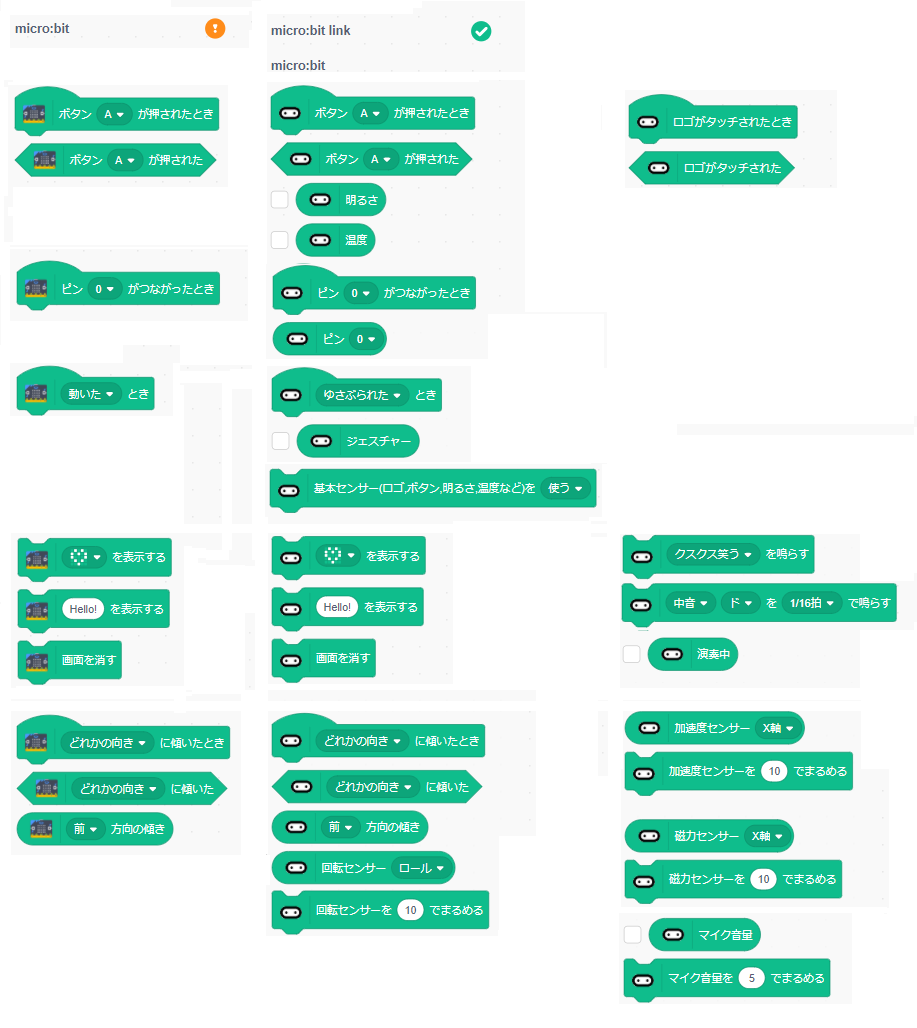
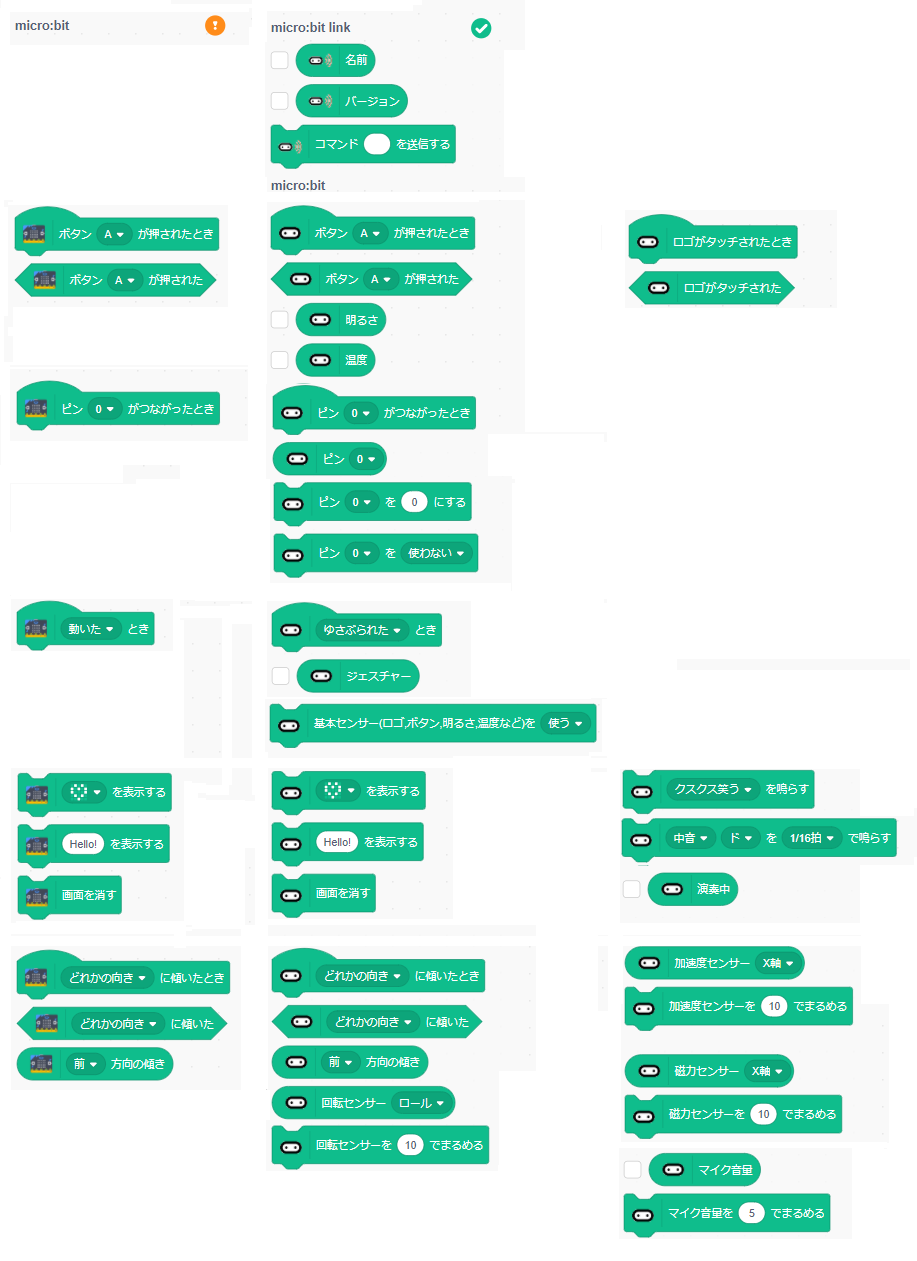
update

diff --git a/scratch-vm/src/extensions/scratch3_mbituart/index.js b/scratch-vm/src/extensions/scratch3_mbituart/index.js
@@ -38,6 +38,12 @@ const CMD = {
 	PLAY_TONE_4: "T4",
 	PLAY_TONE_2: "T2",
 	PLAY_TONE_1: "T1",
+	MODE_PIN_0: "R0",
+	MODE_PIN_1: "R1",
+	MODE_PIN_2: "R2",
+	WRITE_PIN_0: "P0",
+	WRITE_PIN_1: "P1",
+	WRITE_PIN_2: "P2",
 	PLAY_EXPRESS: "TT",
 };
 
@@ -101,7 +107,6 @@ class MBitUART {
 
 			// micro:bit v2	
 			play_sound: 0,
-			microbit_level: 0,
             microphone: 0,
 		};
 
@@ -188,11 +193,6 @@ class MBitUART {
 				}
 				return true;
 			}
-			if(data[1] == 'V') {
-				this._sensors.microbit_level = parseInt(data.substr(2));
-				return true;
-			}
-			return true;
 		}
 		return false;
 	}
@@ -254,9 +254,6 @@ class MBitUART {
 
 	get play_sound () {
 		return this._sensors.play_sound;
-	}
-	get microbit_level () {
-		return this._sensors.microbit_level;
 	}
 	get microphone () {
 		return this._sensors.microphone;
@@ -348,6 +345,12 @@ const MBitUART_Rotation = {
 const MBitUART_Enable = {
 	ENABLE: 1,
 	DISABLE: 0
+};
+
+const MBitUART_PINMODE = {
+	NONE: 0,
+	ONOFF: 1,
+	VALUE: 2
 };
 
 const MBitUART_SoundLevel = {
@@ -451,6 +454,34 @@ class Scratch3_MBitUART_Blocks {
 			{
 				text: '2',
 				value: 2
+			},
+		];
+	}
+	get TOUCH_PINMODE_MENU () {
+		return [
+			{
+				text: formatMessage({
+					id: 'mbituart.pinModeMenu.none',
+					default: 'none',
+					description: 'label for pin mode picker'
+				}),
+				value: MBitUART_PINMODE.NONE
+			},
+			{
+				text: formatMessage({
+					id: 'mbituart.pinModeMenu.onoff',
+					default: 'onoff',
+					description: 'label for pin mode picker'
+				}),
+				value: MBitUART_PINMODE.ONOFF
+			},
+			{
+				text: formatMessage({
+					id: 'mbituart.pinModeMenu.value',
+					default: 'value',
+					description: 'label for pin mode picker'
+				}),
+				value: MBitUART_PINMODE.VALUE
 			},
 		];
 	}
@@ -1057,6 +1088,49 @@ class Scratch3_MBitUART_Blocks {
 					}
 				},
 				{
+					opcode: 'outPinValue',
+					text: formatMessage({
+						id: 'mbituart.outPinValue',
+						default: 'output [VALUE] to pin [PIN] ',
+						description: 'output value to the pin'
+
+					}),
+					blockType: BlockType.COMMAND,
+					arguments: {
+						PIN: {
+							type: ArgumentType.NUMBER,
+							menu: 'touchPins',
+							defaultValue: 0
+						},
+						VALUE: {
+							type: ArgumentType.NUMBER,
+							defaultValue: 0
+						}
+					}
+				},
+				{
+					opcode: 'setPinConfig',
+					text: formatMessage({
+						id: 'mbituart.setPinConfig',
+						default: 'pin [PIN] [MODE]',
+						description: 'set the pin mode'
+
+					}),
+					blockType: BlockType.COMMAND,
+					arguments: {
+						PIN: {
+							type: ArgumentType.NUMBER,
+							menu: 'touchPins',
+							defaultValue: 0
+						},
+						MODE: {
+							type: ArgumentType.STRING,
+							menu: 'pinMode',
+							defaultValue: MBitUART_PINMODE.NONE
+						}
+					}
+				},
+				{
 					opcode: 'whenGesture',
 					text: formatMessage({
 						id: 'mbituart.whenGesture',
@@ -1393,6 +1467,10 @@ class Scratch3_MBitUART_Blocks {
 					acceptReporters: true,
 					items: this.TOUCH_PINS_MENU
 				},
+				pinMode: {
+					acceptReporters: true,
+					items: this.TOUCH_PINMODE_MENU
+				},
 				rotation: {
 					acceptReporters: true,
 					items: this.ROTATION_MENU
@@ -1624,6 +1702,36 @@ class Scratch3_MBitUART_Blocks {
 	getPinConnected (args) {
 		return this.instance.touch_pins[args.PIN];
 	}
+	outPinValue (args) {
+		if(argsPIN == "0") {
+			this.command(CMD.WRITE_PIN_0, args.VALUE);
+			return;
+		}
+		if(argsPIN == "1") {
+			this.command(CMD.WRITE_PIN_1, args.VALUE);
+			return;
+		}
+		if(argsPIN == "2") {
+			this.command(CMD.WRITE_PIN_2, args.VALUE);
+			return;
+		}
+	}
+	setPinConfig (args) {
+		let flag = (args.MODE == "onoff")? "1" :
+			(args.MODE == "value")? "2" : "0";
+		if(argsPIN == "0") {
+			this.command(CMD.MODE_PIN_0, flag);
+			return;
+		}
+		if(argsPIN == "1") {
+			this.command(CMD.MODE_PIN_1, flag);
+			return;
+		}
+		if(argsPIN == "2") {
+			this.command(CMD.MODE_PIN_2, flag);
+			return;
+		}
+	}
 
 	getLightLevel () {
 		return this.instance.light_level;
@@ -1645,7 +1753,7 @@ class Scratch3_MBitUART_Blocks {
 	}
 
 	setSensor (args) {
-		this.command(CMD.SENSOR, (args.ENABLE == 0)? "0" : "31");
+		this.command(CMD.SENSOR, (args.ENABLE == 0)? "0" : ("" + (1 + 2 + 4 + 16)));
 	}
 	setMagneticForce (args) {
 		this.command(CMD.MAGNETIC_FORCE, args.ROUND);
@@ -1718,6 +1826,8 @@ class Scratch3_MBitUART_Blocks {
 			    "mbituart.getGesture": "ジェスチャー",
 			    "mbituart.whenPinConnected": "ピン[PIN]がつながったとき",
 			    "mbituart.getPinConnected": "ピン[PIN]",
+			    "mbituart.outPinValue": "ピン[PIN]を[VALUE]にする",
+			    "mbituart.setPinConfig": "ピン[PIN]を[MODE]",
 			    "mbituart.whenTilted": "[DIRECTION]に傾いたとき",
 				'mbituart.whenLogoTouched': 'ロゴがタッチされたとき',
 				'mbituart.isLogoTouched':"ロゴがタッチされた",
@@ -1784,6 +1894,9 @@ class Scratch3_MBitUART_Blocks {
 				'mbituart.expressMenu.spring': '春',
 				'mbituart.expressMenu.twinkle': 'きらめく',
 				'mbituart.expressMenu.yawn': 'あくび',
+				'mbituart.pinModeMenu.none': '使わない',
+				'mbituart.pinModeMenu.onoff': 'デジタルで使う',
+				'mbituart.pinModeMenu.value': 'アナログで使う',
 			}
 		};
 		for (const locale in extTranslations) {
